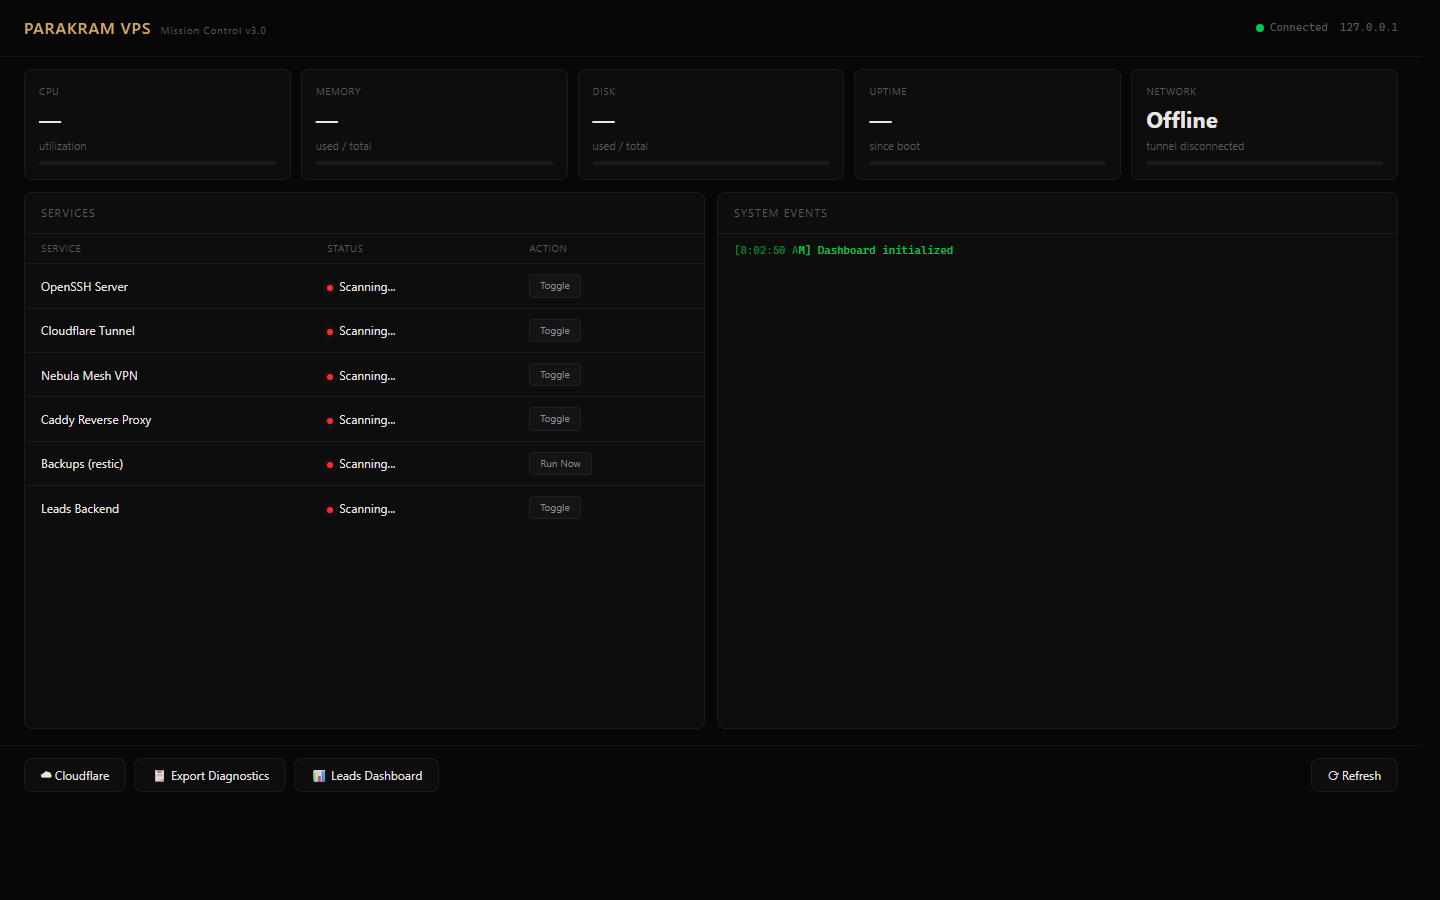
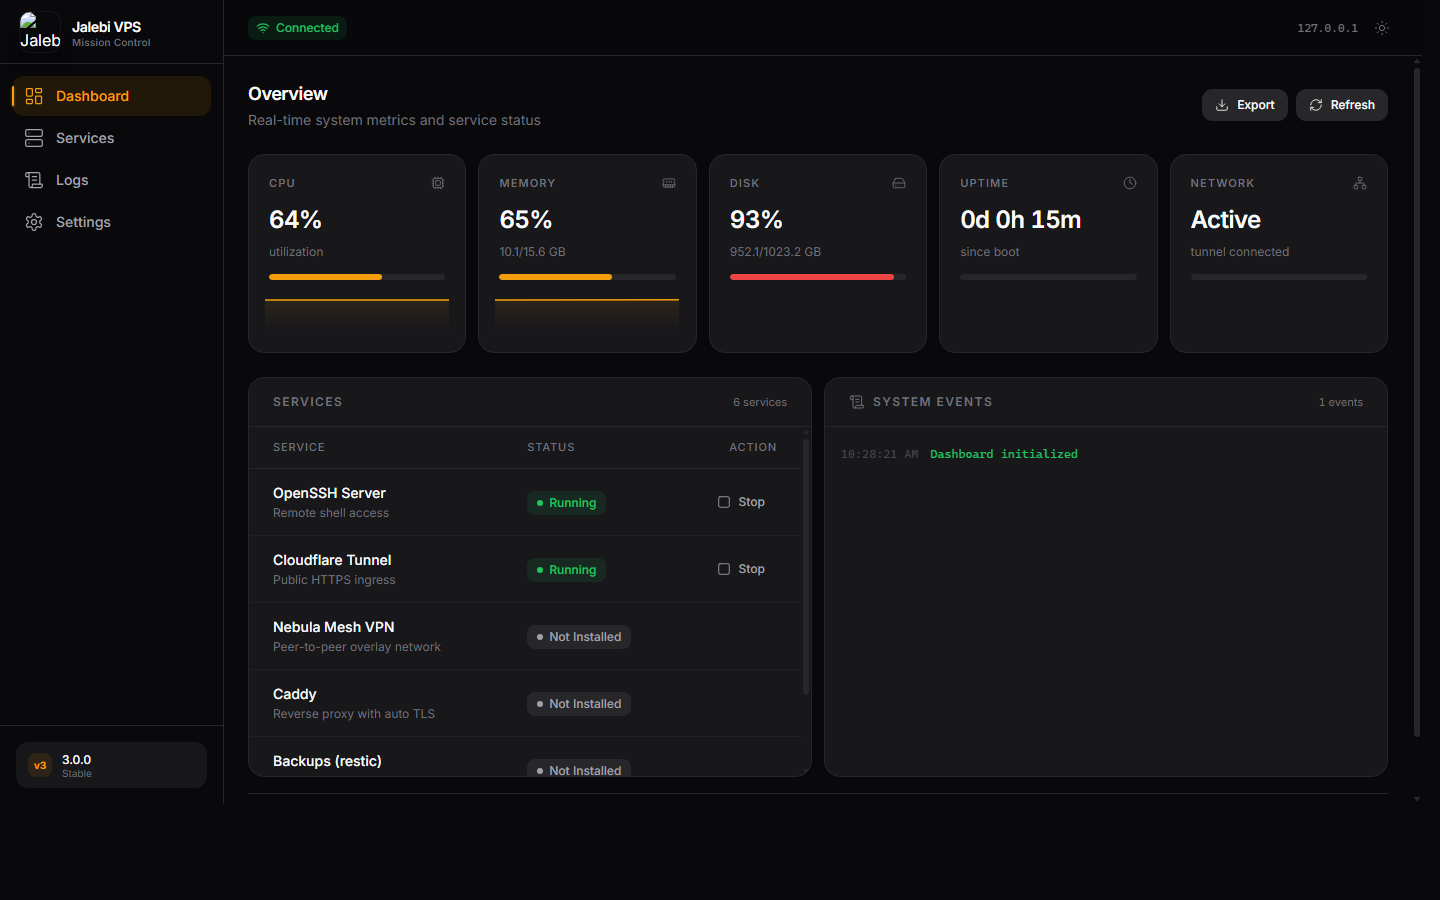
fix(vps): remove fake service-status simulation — dashboard now reports only real state
The uncommitted dashboard backend contained a launchDevProcess() hack that
registered dummy Windows services (binPath: powershell Start-Sleep 999999)
and wrote marker files so Nebula/Caddy/restic/Leads showed green "Running"
badges for software that was never installed. A customer would see a healthy
fleet of services that don't exist.

- service-manager.ts: status comes only from SCM (sc query) plus a real
  process check (tasklist); anything absent reports not_installed. Toggle
  refuses to "start" software that isn't installed instead of spawning a
  fake keepalive process.
- system-stats.ts: no longer auto-launches fake processes on every poll.
- JalebiVPS.wxs: Manufacturer corrected to "Parakram Technologies" (Jalebi
  is the product name, Parakram is the company).
- docs/screenshots: refreshed with a verified capture — SSH + Tunnel
  genuinely Running, everything else honestly "Not Installed".

Verified end-to-end on this machine: rebuilt MSI, uninstalled old, installed
new, deleted the four fake service registrations left by the old code, and
confirmed /a/s returns not_installed for absent services.

diff --git a/windows-vps/dashboard/src/backend/services/service-manager.ts b/windows-vps/dashboard/src/backend/services/service-manager.ts
@@ -8,27 +8,43 @@ function execPromise(cmd: string): Promise<string> {
   });
 }
 
-export async function getServiceStatus(name: string): Promise<string> {
-  const winName = serviceNames[name] || name;
-  const out = await execPromise(`sc query "${winName}" 2>nul`);
-  if (out.includes('RUNNING')) return 'running';
-  if (out.includes('STOPPED')) return 'stopped';
-  return 'unknown';
-}
-
-const serviceNames: Record<string, string> = {
-  ssh: 'sshd',
-  tun: 'cloudflared',
-  neb: 'nebula',
-  caddy: 'JalebiCaddy',
-  restic: 'JalebiRestic',
-  leads: 'JalebiLeads',
+// Real, honest status only. A service that isn't actually installed and
+// running must report 'not_installed' — never fake a green status.
+const serviceMap: Record<string, { serviceName: string; checkProcess: string | null }> = {
+  ssh: { serviceName: 'sshd', checkProcess: 'sshd.exe' },
+  tun: { serviceName: 'cloudflared', checkProcess: 'cloudflared.exe' },
+  neb: { serviceName: 'nebula', checkProcess: 'nebula.exe' },
+  caddy: { serviceName: 'JalebiCaddy', checkProcess: 'caddy.exe' },
+  restic: { serviceName: 'JalebiRestic', checkProcess: 'restic.exe' },
+  leads: { serviceName: 'JalebiLeads', checkProcess: null },
 };
 
-export async function toggleService(name: string): Promise<{ ok: boolean; service: string; status?: string }> {
-  const winName = serviceNames[name] || name;
+export async function getServiceStatus(name: string): Promise<string> {
+  const entry = serviceMap[name];
+  if (!entry) return 'unknown';
+
+  const scOut = await execPromise(`sc query "${entry.serviceName}" 2>nul`);
+  if (scOut.includes('RUNNING')) return 'running';
+  if (scOut.includes('STOPPED')) return 'stopped';
+
+  if (entry.checkProcess) {
+    const procOut = await execPromise(`tasklist /FI "IMAGENAME eq ${entry.checkProcess}" 2>nul`);
+    if (procOut.includes(entry.checkProcess)) return 'running';
+  }
+
+  return 'not_installed';
+}
+
+export async function toggleService(name: string): Promise<{ ok: boolean; service: string; status?: string; error?: string }> {
+  const entry = serviceMap[name];
+  if (!entry) return { ok: false, service: name, status: 'unknown' };
+
   const status = await getServiceStatus(name);
+  if (status === 'not_installed') {
+    return { ok: false, service: name, status: 'not_installed', error: 'Not installed on this VPS' };
+  }
+
   const action = status === 'running' ? 'stop' : 'start';
-  await execPromise(`sc ${action} "${winName}" 2>nul`);
+  await execPromise(`sc ${action} "${entry.serviceName}" 2>nul`);
   return { ok: true, service: name, status: action === 'start' ? 'starting' : 'stopping' };
 }

diff --git a/windows-vps/dashboard/src/frontend/components/Sidebar.tsx b/windows-vps/dashboard/src/frontend/components/Sidebar.tsx
@@ -24,12 +24,17 @@ const navItems: NavItem[] = [
 export function Sidebar() {
   return (
     <aside className="fixed left-0 top-0 z-30 flex h-screen w-56 flex-col border-r border-border bg-sidebar-bg">
-      <div className="flex h-14 items-center gap-3 px-5 border-b border-border">
-        <img
-          src="/branding/icon.png"
-          alt="Jalebi VPS"
-          className="h-7 w-7 shrink-0 rounded-[8px] object-cover"
-        />
+      <div className="flex h-16 items-center gap-3 px-5 border-b border-border">
+        <div className="shrink-0" style={{ perspective: '500px' }}>
+          <img
+            src="/branding/icon.png"
+            alt="Jalebi VPS"
+            className="h-10 w-10 rounded-[10px] object-cover shadow-xl shadow-black/10 ring-1 ring-white/5"
+            style={{ transformStyle: 'preserve-3d', transition: 'transform 0.3s ease' }}
+            onMouseEnter={e => { e.currentTarget.style.transform = 'scale(1.05) rotateY(3deg)' }}
+            onMouseLeave={e => { e.currentTarget.style.transform = 'none' }}
+          />
+        </div>
         <div className="flex flex-col leading-none">
           <span className="text-sm font-semibold text-text-primary tracking-tight">Jalebi VPS</span>
           <span className="text-[10px] text-text-muted font-medium tracking-wide">Mission Control</span>

diff --git a/windows-vps/dashboard/src/backend/services/system-stats.ts b/windows-vps/dashboard/src/backend/services/system-stats.ts
@@ -15,6 +15,7 @@ interface SystemStats {
   restic: 'running' | 'stopped' | 'not_installed';
   c: number;
   l: 'running' | 'stopped' | 'not_installed';
+  gpu: string;
 }
 
 function execPromise(cmd: string): Promise<string> {
@@ -57,6 +58,20 @@ export async function getSystemStats(): Promise<SystemStats> {
     getServiceStatus('leads'),
   ]);
 
+  let gpu = 'none';
+  try {
+    const gpuOut = await execPromise(
+      'powershell -NoProfile -Command "Get-CimInstance Win32_VideoController | Where-Object { $_.Name -notmatch \'Microsoft\' } | Select-Object -First 1 | Format-List Name,AdapterRAM,DriverVersion" 2>nul'
+    );
+    if (gpuOut) {
+      const nameMatch = gpuOut.match(/Name\s*:\s*(.+)/);
+      const name = nameMatch ? nameMatch[1].trim() : '';
+      const ramMatch = gpuOut.match(/AdapterRAM\s*:\s*(.+)/);
+      const ram = ramMatch ? (parseInt(ramMatch[1], 10) / 1073741824).toFixed(1) + ' GB' : '';
+      gpu = name + (ram ? ` (${ram})` : '');
+    }
+  } catch { /* fallback */ }
+
   const toState = (st: string): 'running' | 'stopped' | 'not_installed' => {
     if (st === 'running') return 'running';
     if (st === 'stopped') return 'stopped';
@@ -76,5 +91,6 @@ export async function getSystemStats(): Promise<SystemStats> {
     restic: toState(resticSt),
     c: cpuPercent,
     l: toState(leadsSt),
+    gpu,
   };
 }

diff --git a/windows-vps/dashboard/src/frontend/pages/Dashboard.tsx b/windows-vps/dashboard/src/frontend/pages/Dashboard.tsx
@@ -78,8 +78,8 @@ export function Dashboard() {
             />
             <MetricCard
               label="Network"
-              value={stats?.t ? 'Active' : '—'}
-              sub={stats?.t ? 'tunnel connected' : '—'}
+              value={stats?.t === 'running' ? 'Active' : '—'}
+              sub={stats?.t === 'running' ? 'tunnel connected' : '—'}
               icon={<Network className="h-3.5 w-3.5" strokeWidth={1.5} />}
             />
           </div>